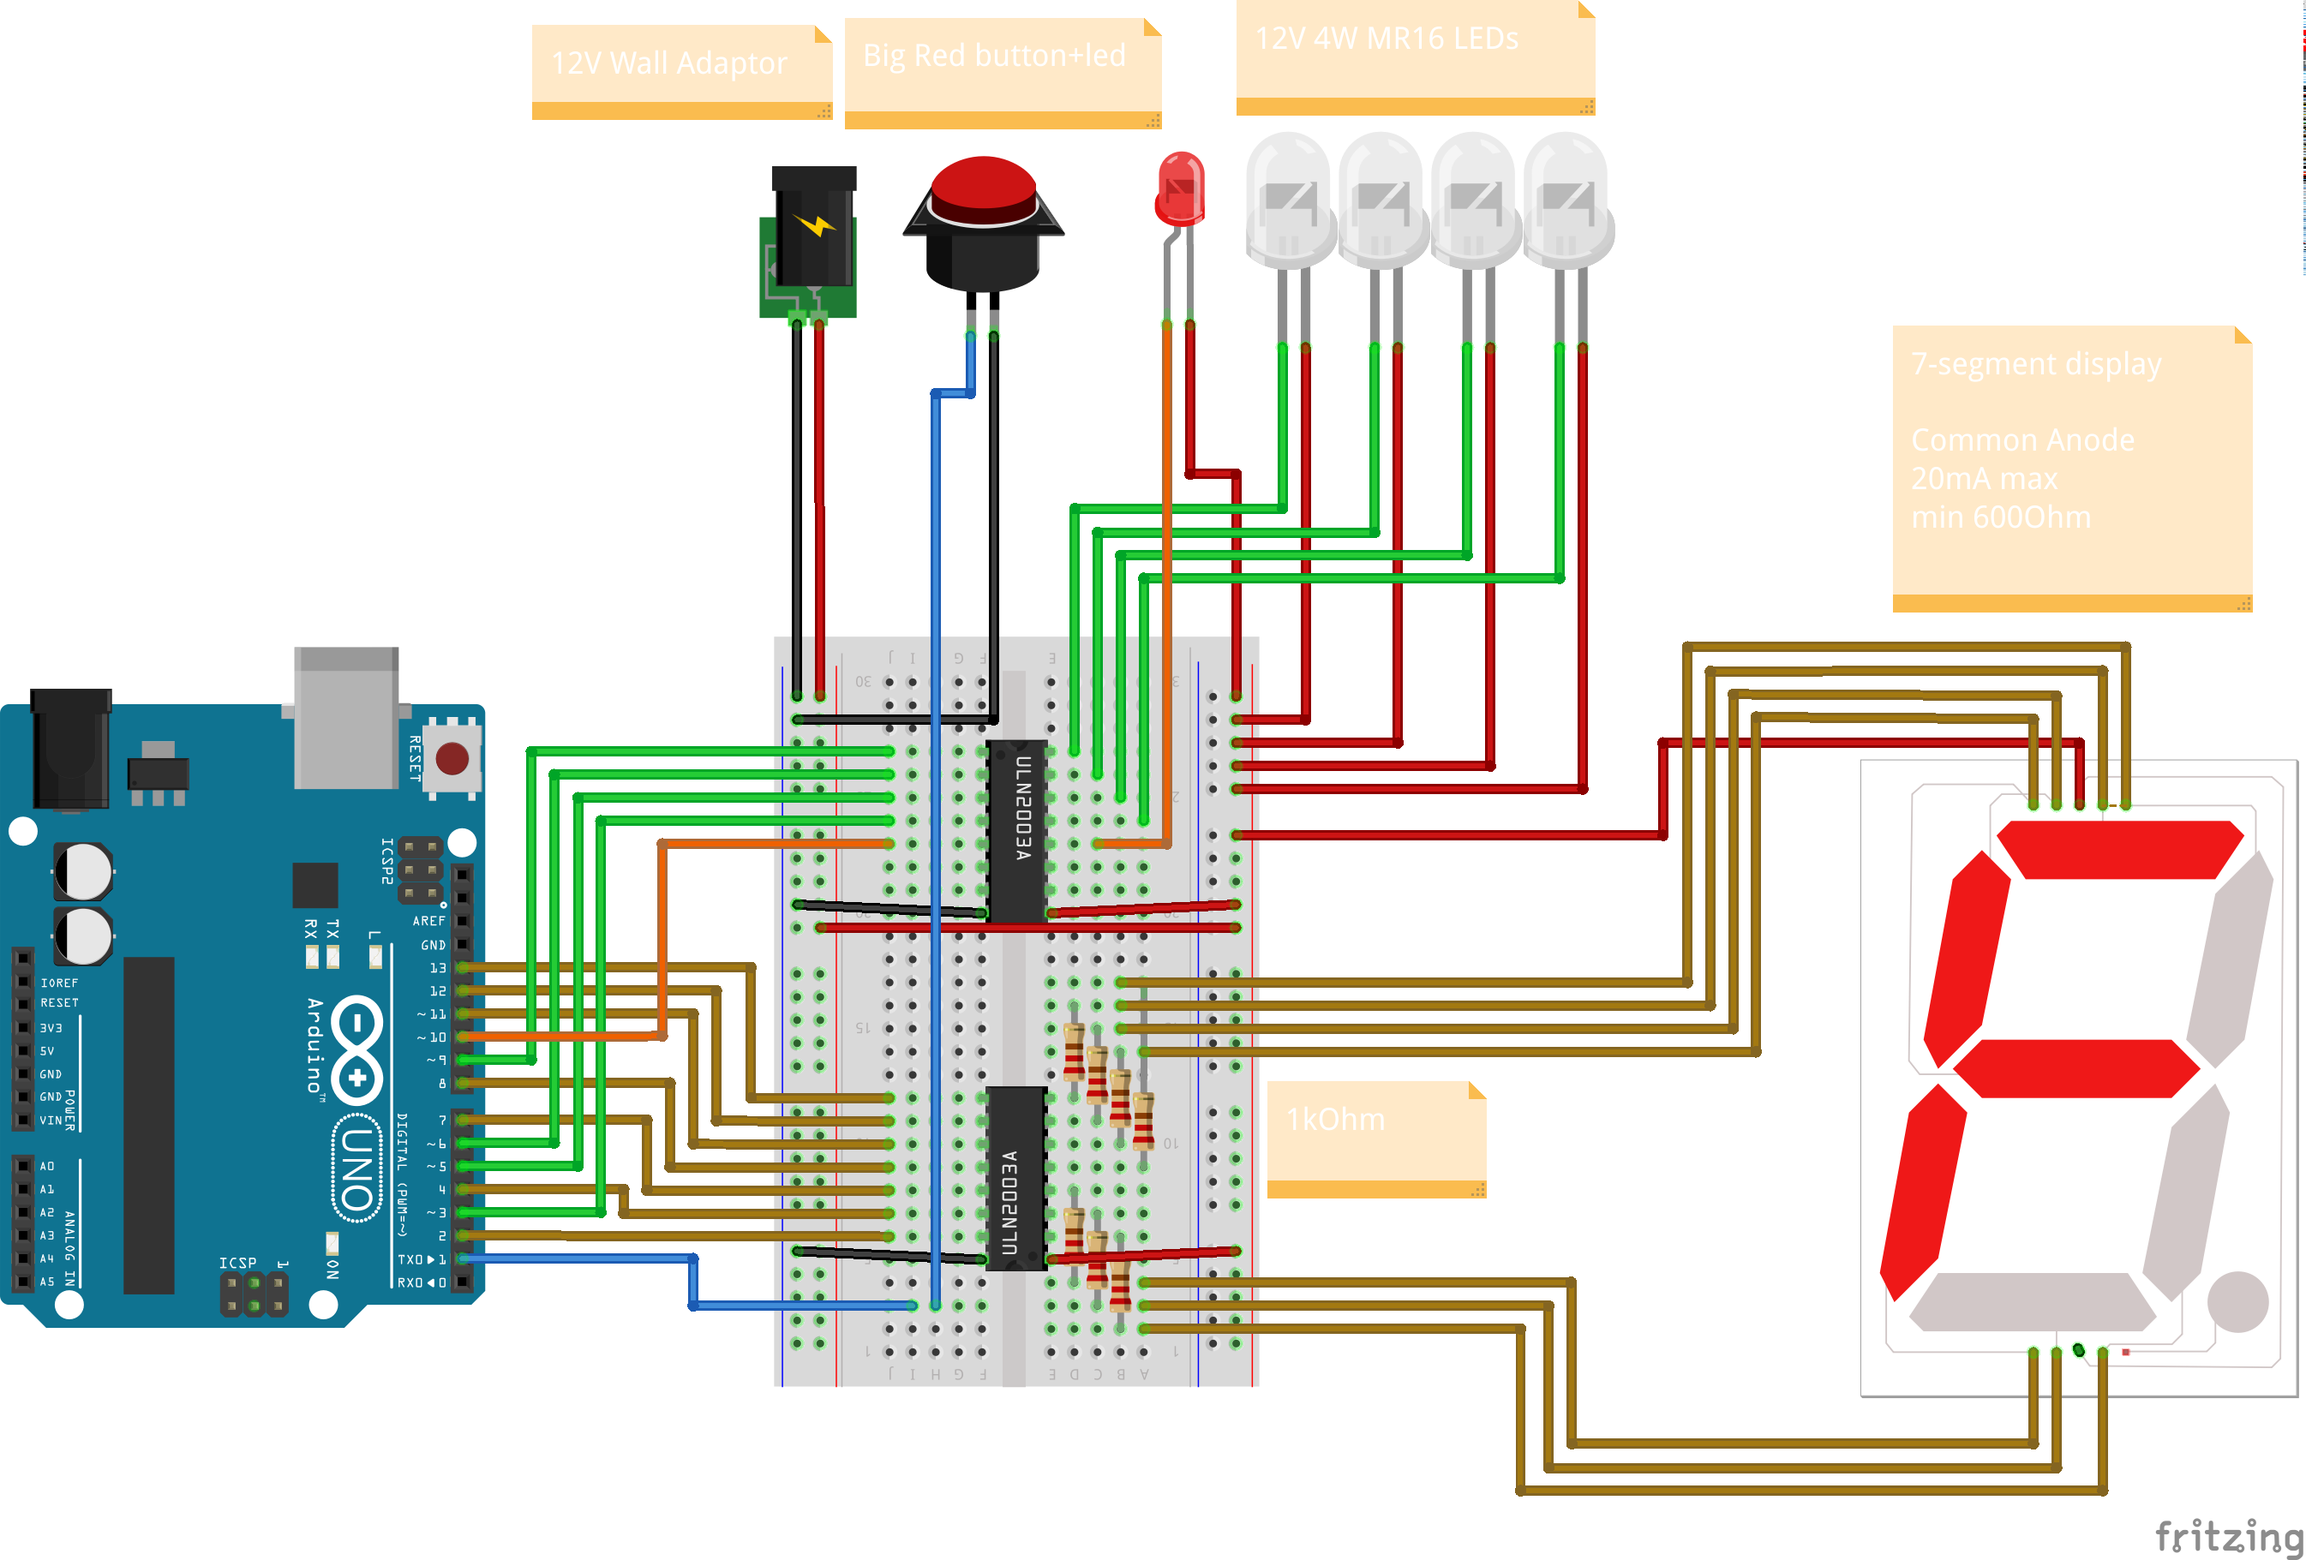
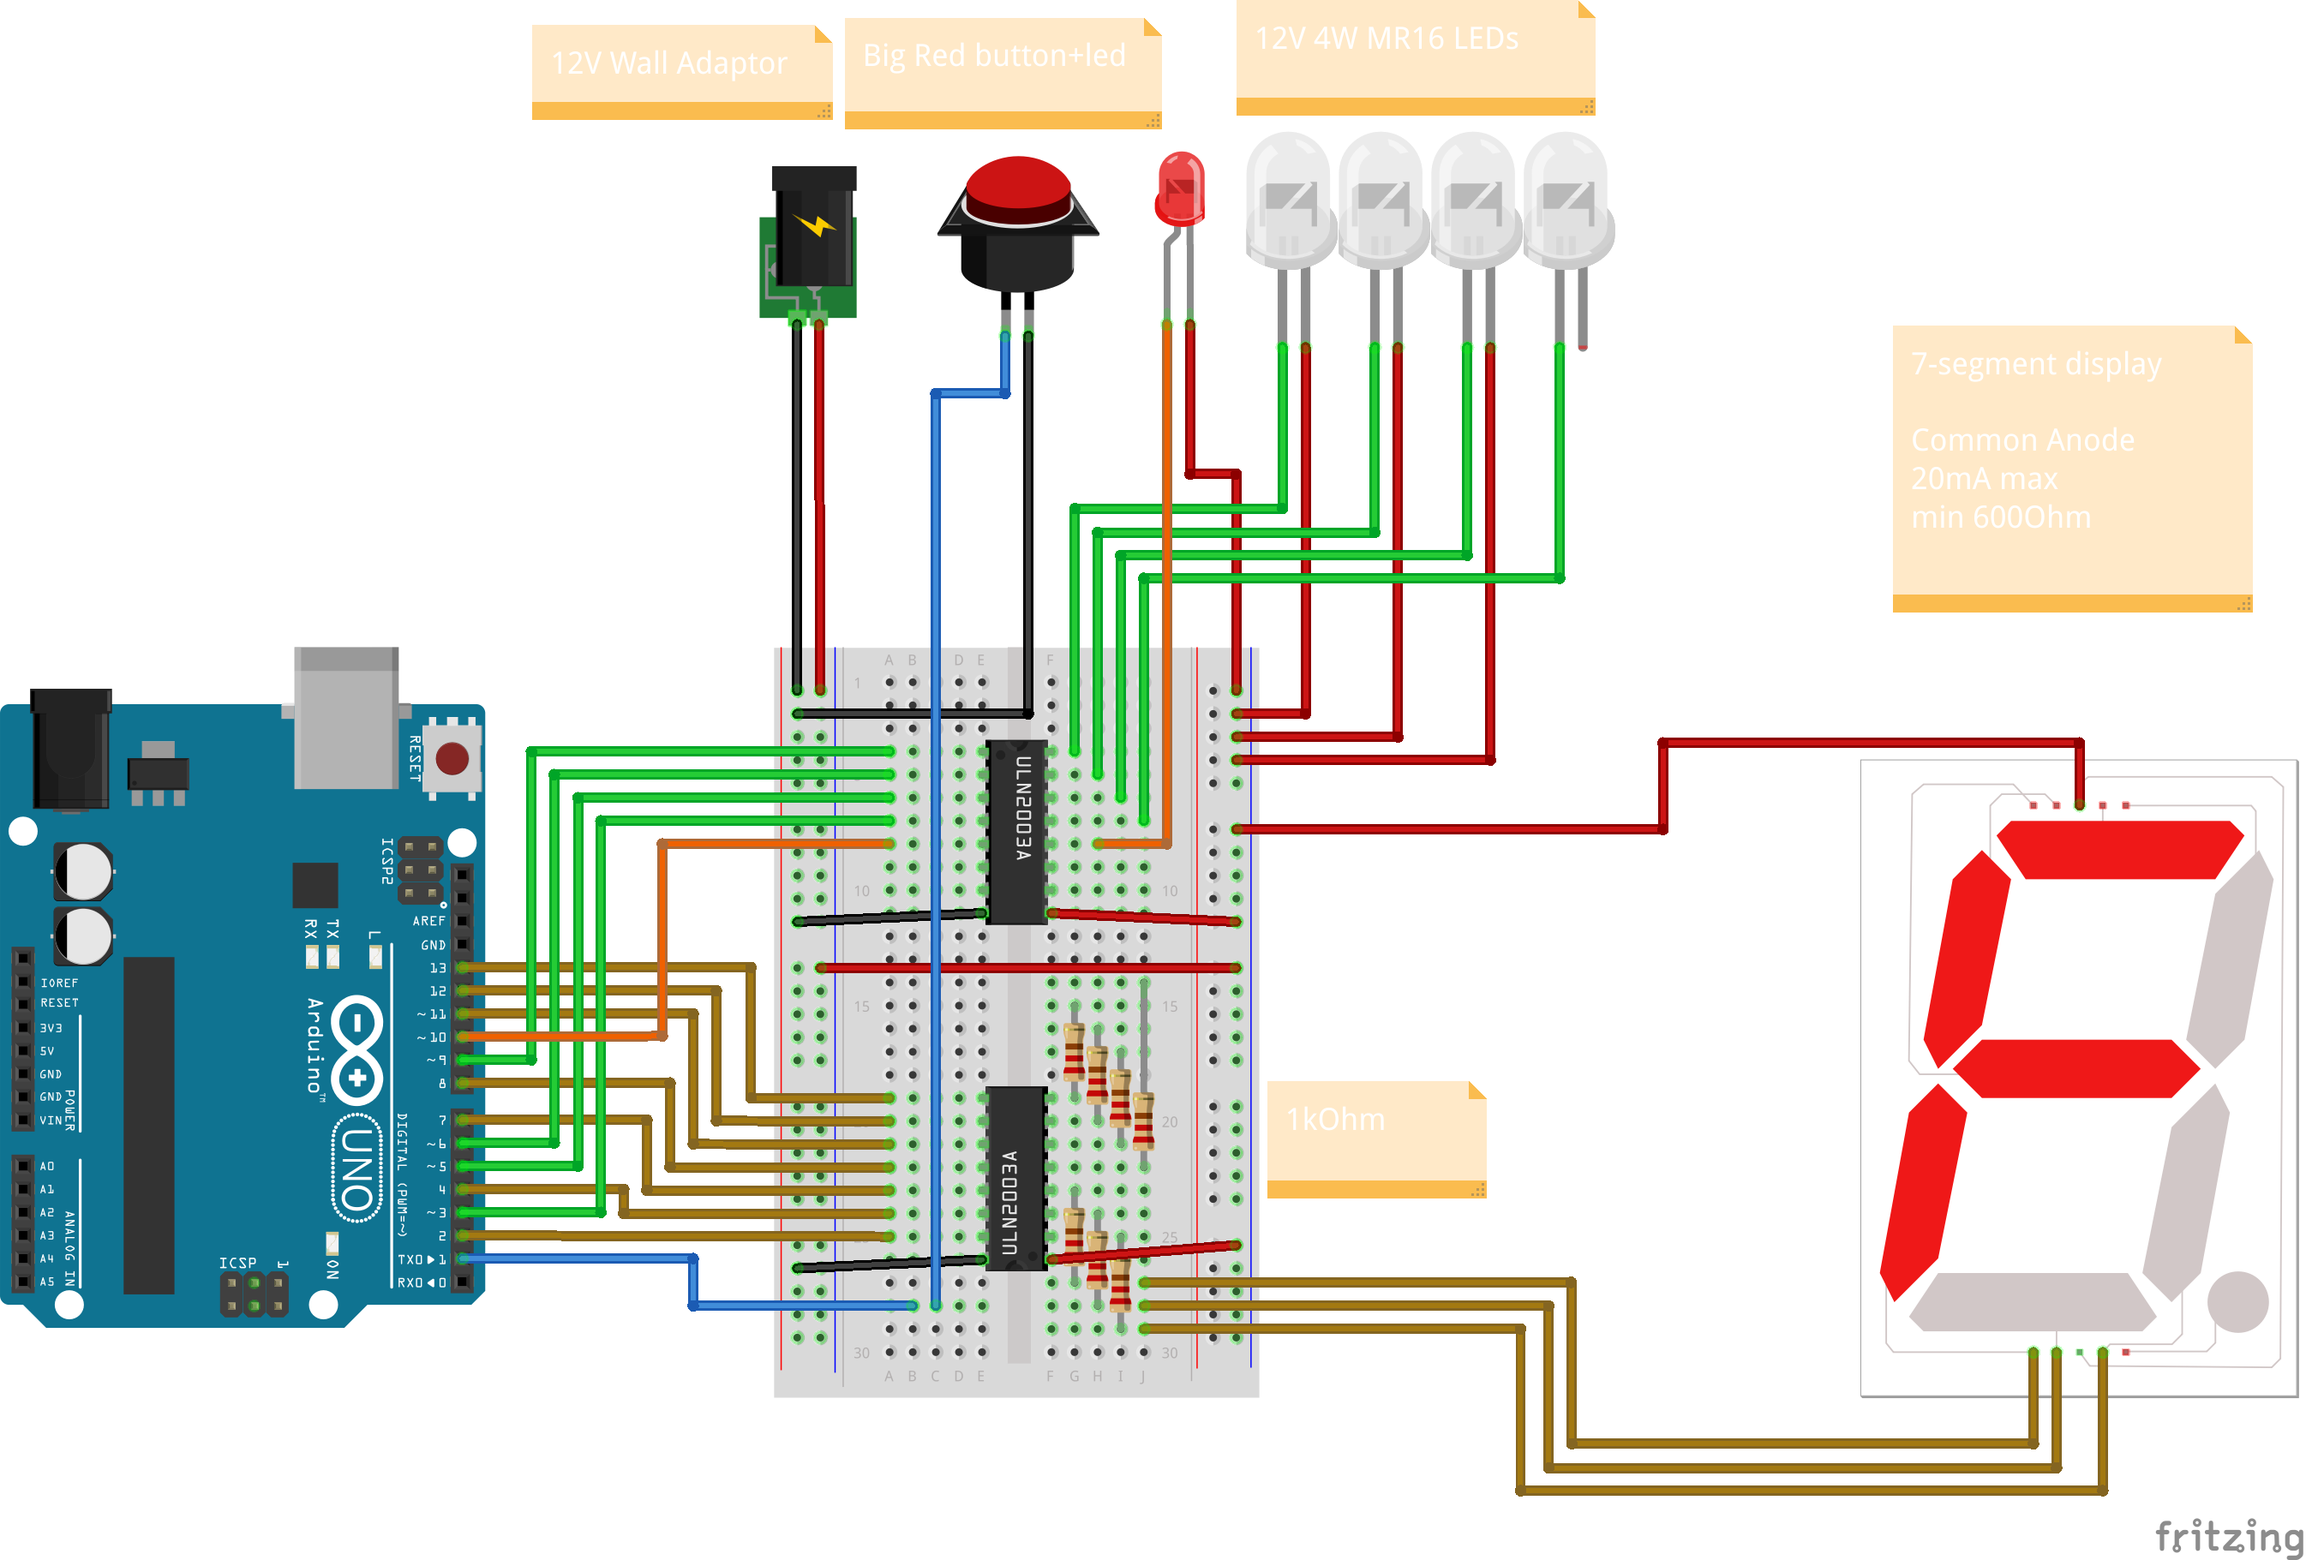
Pivoted Breadboard in the correct way ^^

Changed region(s): [[0.3434, 0.0923, 0.9365, 0.9226], [0.9989, 0.0, 1.0, 0.1845]]

diff --git a/README.md b/README.md
@@ -115,7 +115,7 @@ Initial state :
 ## Various details
 
 ### PWM pins on the Arduino
-reference [here](https://www.arduino.cc/reference/en/language/functions/analog-io/analogwrite/)
+Reference [here](https://www.arduino.cc/reference/en/language/functions/analog-io/analogwrite/)
 
 On most Arduino boards (those with the ATmega168 or ATmega328P), this function works on pins `3`, `5`, `6`, `9`, `10`, and `11`.
 They are indicated by a `~` besides their number on the Arduino.
@@ -133,7 +133,7 @@ Pinning :
 * GND : ground
 
 ### Darlington arrays
-(nice explanation [here](https://forum.arduino.cc/index.php?topic=157018.0))
+Nice explanation [here](https://forum.arduino.cc/index.php?topic=157018.0)
 
 The output of the ULN2803 is not supplying anything. The ULN2803 are a bunch of darlington transistor.
 They pull the output low. That is all. They have also a large voltage drop of about 1V.
